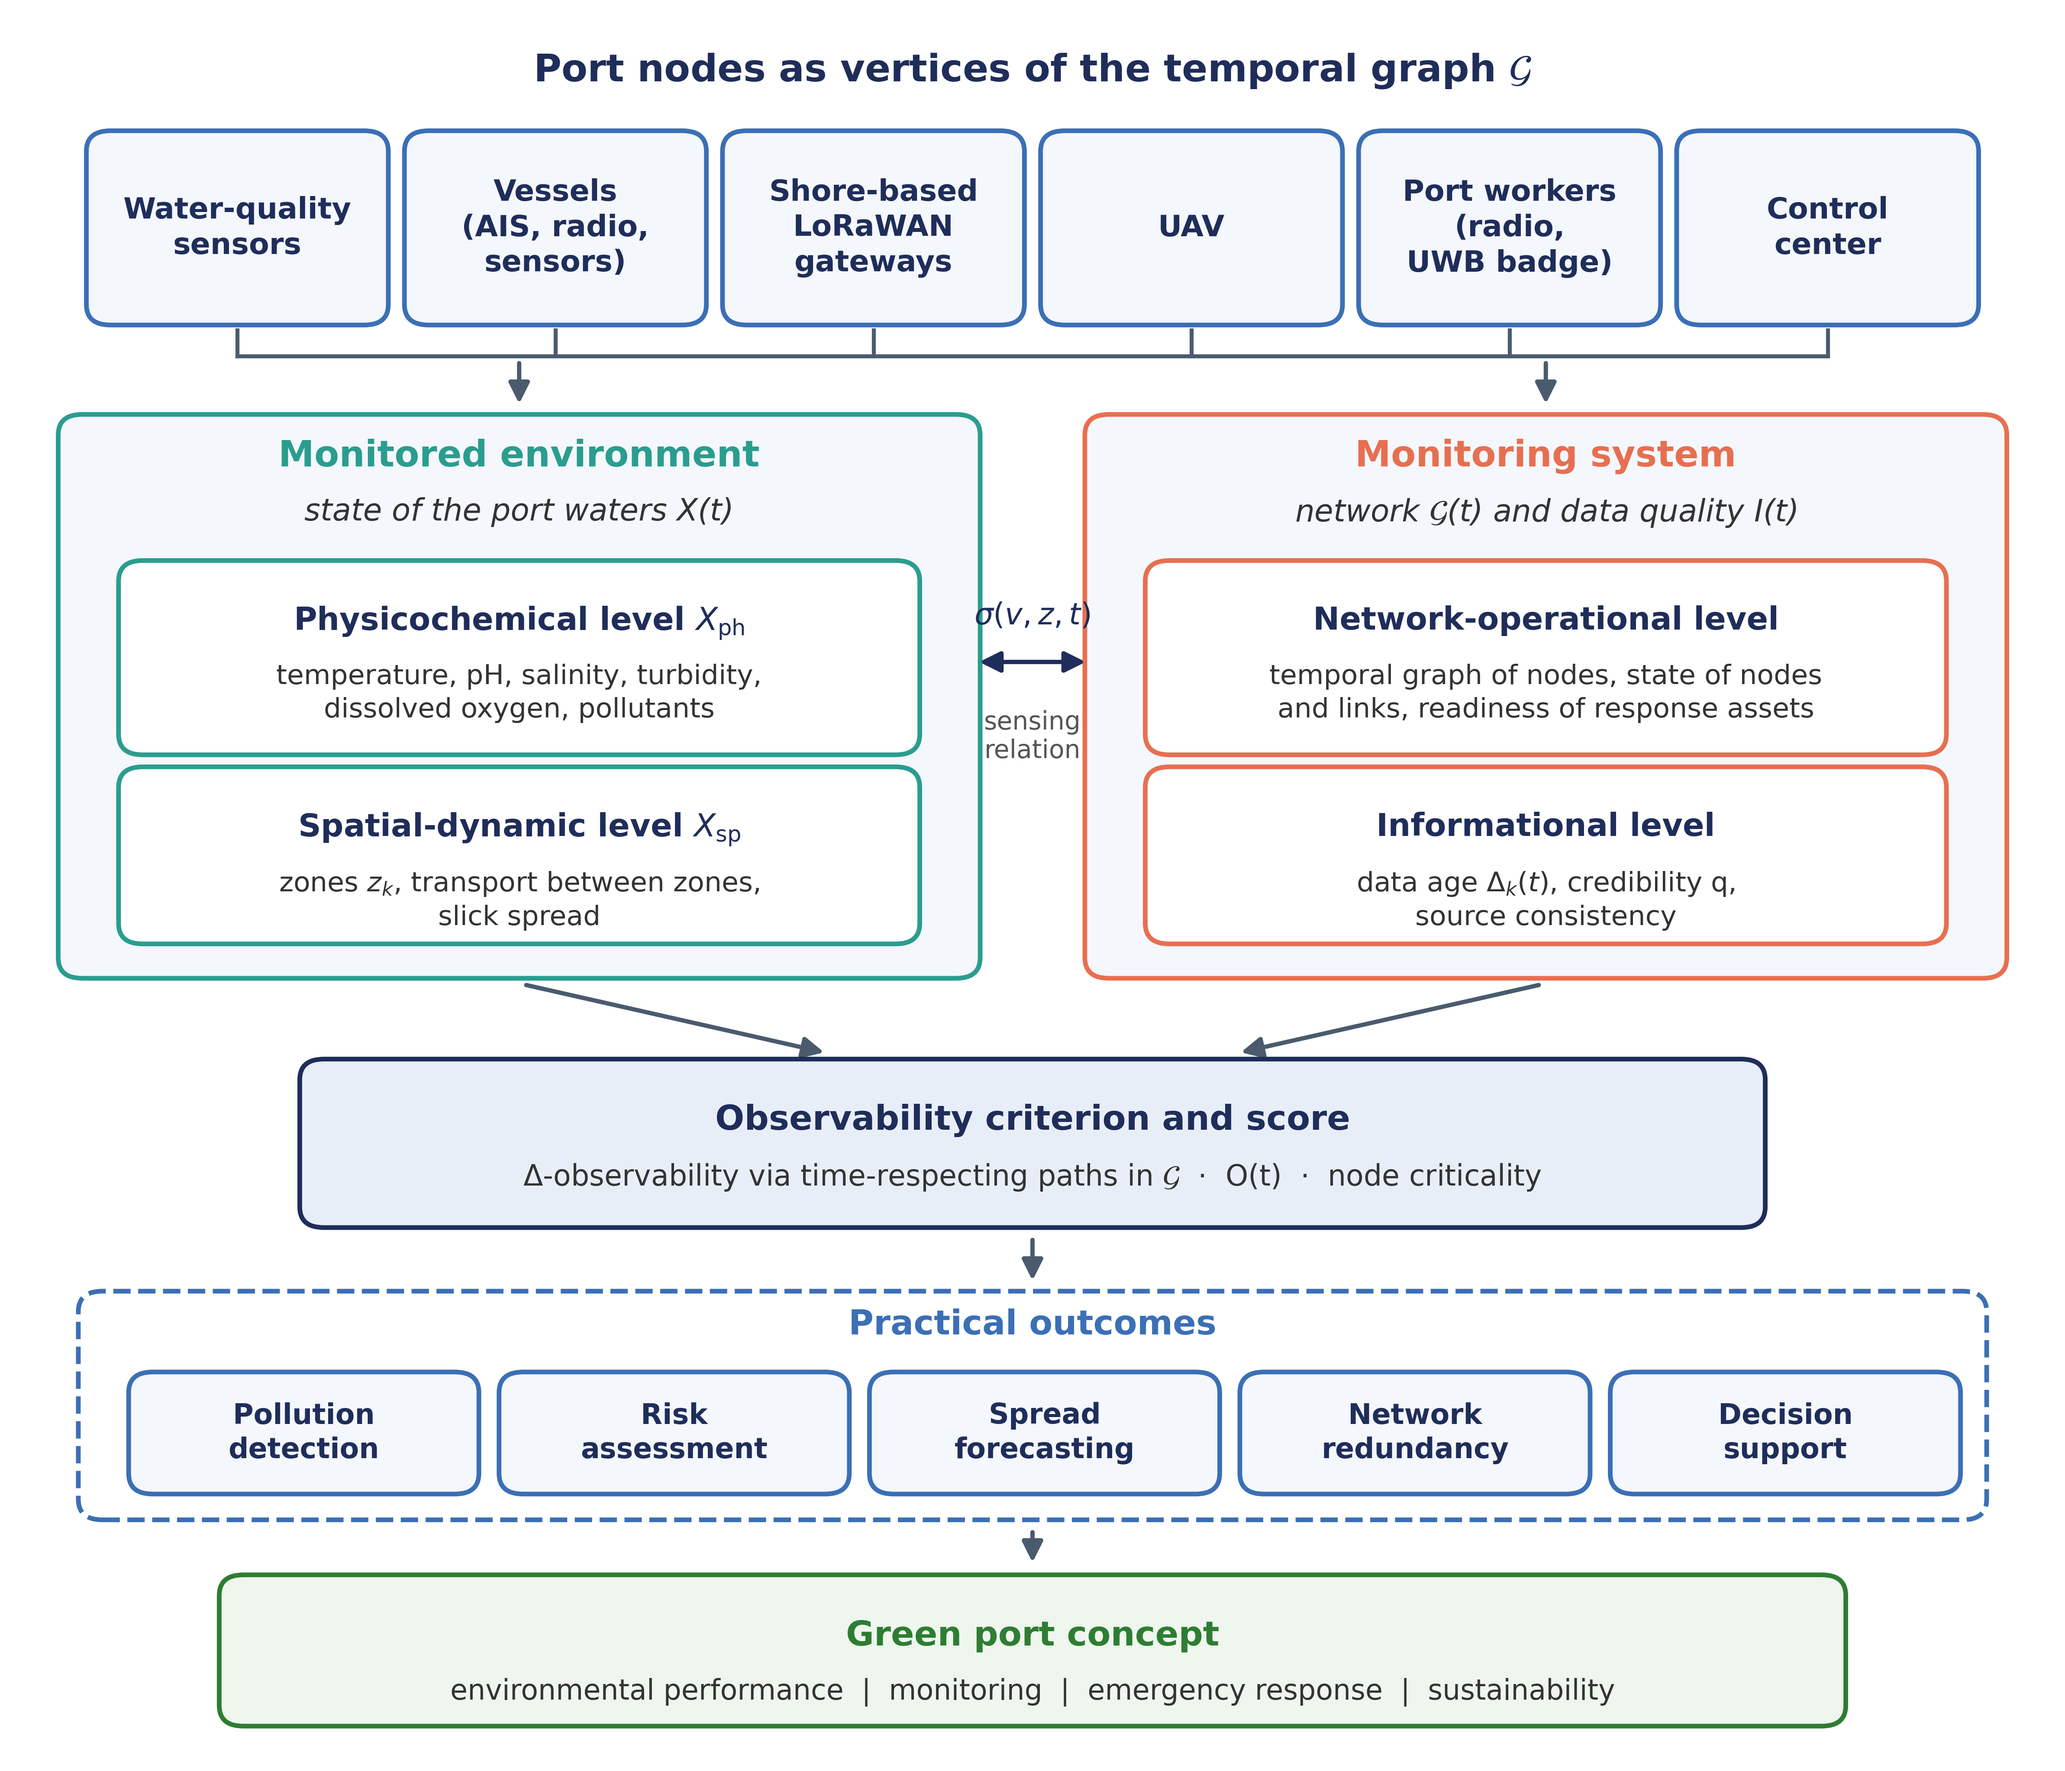
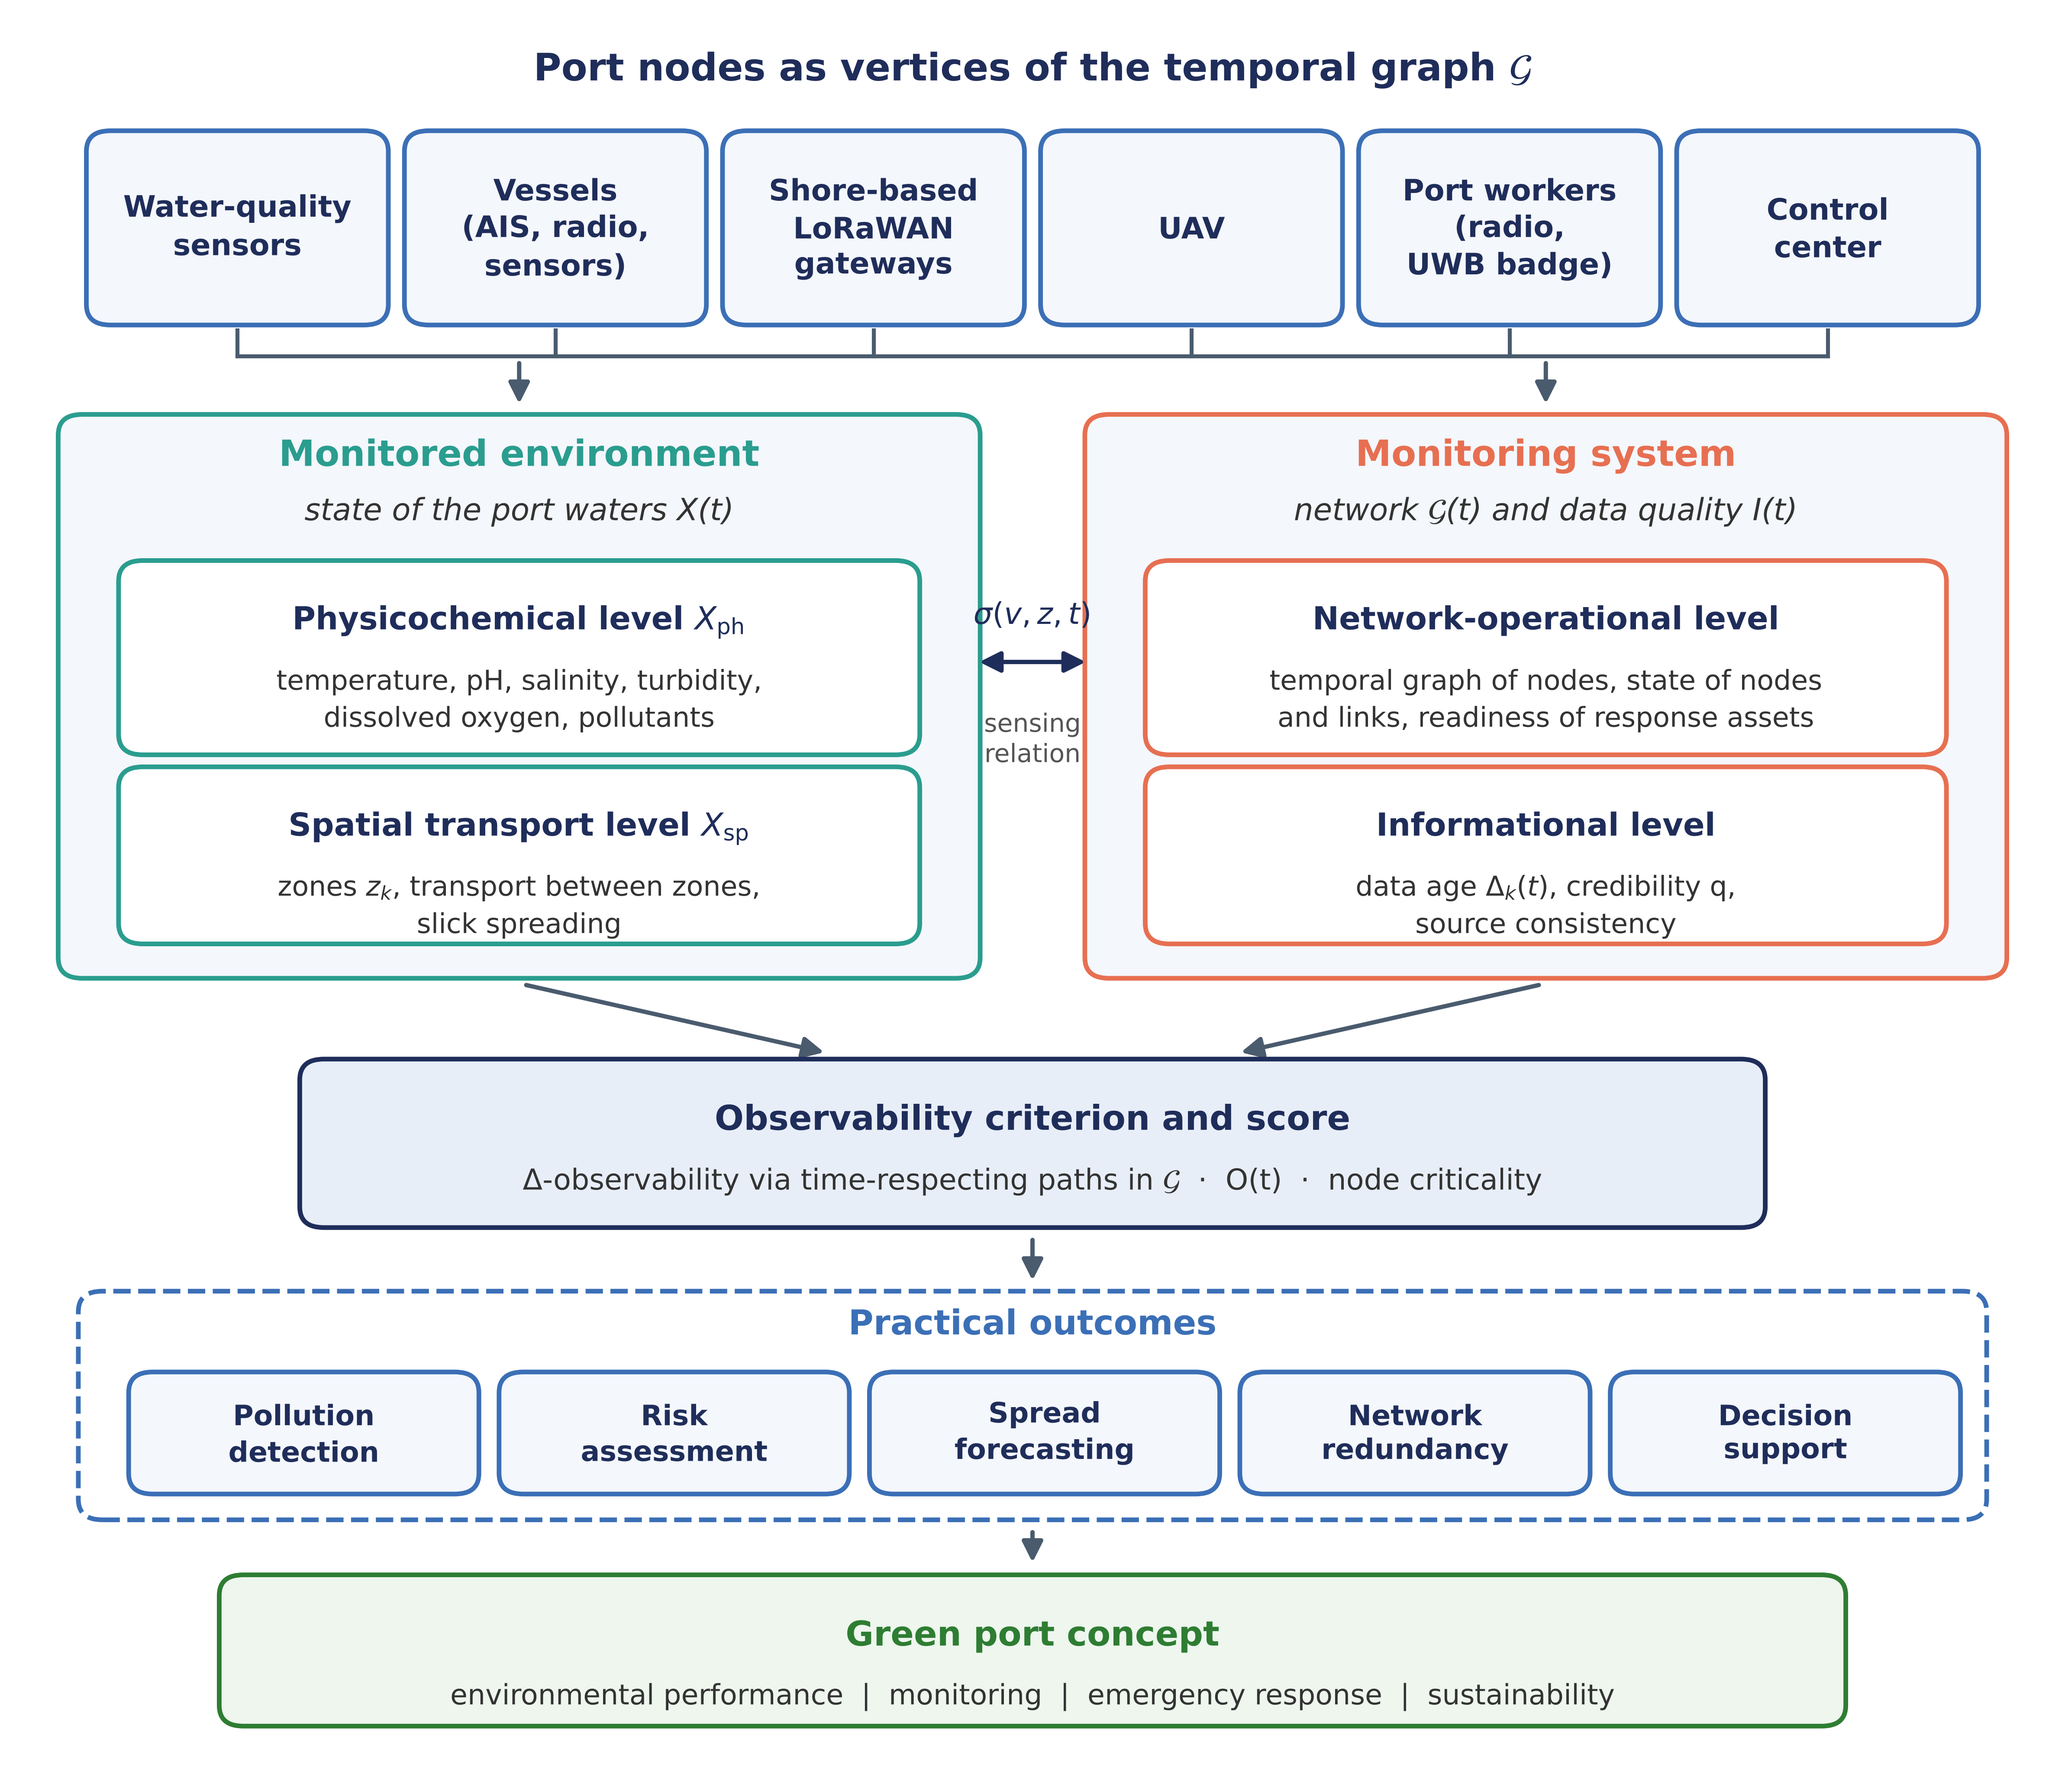
Figure 1: rename "spatial-dynamic level" to "spatial transport level"
- fig1_scheme.png and figures/sources/fig1.py updated to match the manuscript
- "slick spread" renamed to "slick spreading"

diff --git a/figures/sources/fig1.py b/figures/sources/fig1.py
@@ -43,8 +43,8 @@ ax.text(24.5, 76, "Monitored environment", ha="center", va="top", fontsize=10, w
 ax.text(24.5, 72.6, "state of the port waters X(t)", ha="center", va="top", fontsize=8.5, style="italic", color="#333")
 box(5, 58, 39, 10.5, "Physicochemical level $X_{\\mathrm{ph}}$",
     "temperature, pH, salinity, turbidity,\ndissolved oxygen, pollutants", ec=TEAL, fc="white", tsize=8.8, bsize=7.6)
-box(5, 47, 39, 9.5, "Spatial-dynamic level $X_{\\mathrm{sp}}$",
-    "zones $z_k$, transport between zones,\nslick spread", ec=TEAL, fc="white", tsize=8.8, bsize=7.6)
+box(5, 47, 39, 9.5, "Spatial transport level $X_{\\mathrm{sp}}$",
+    "zones $z_k$, transport between zones,\nslick spreading", ec=TEAL, fc="white", tsize=8.8, bsize=7.6)
 
 box(53, 45, 45, 32, "", ec=ORANGE)
 ax.text(75.5, 76, "Monitoring system", ha="center", va="top", fontsize=10, weight="bold", color=ORANGE)
